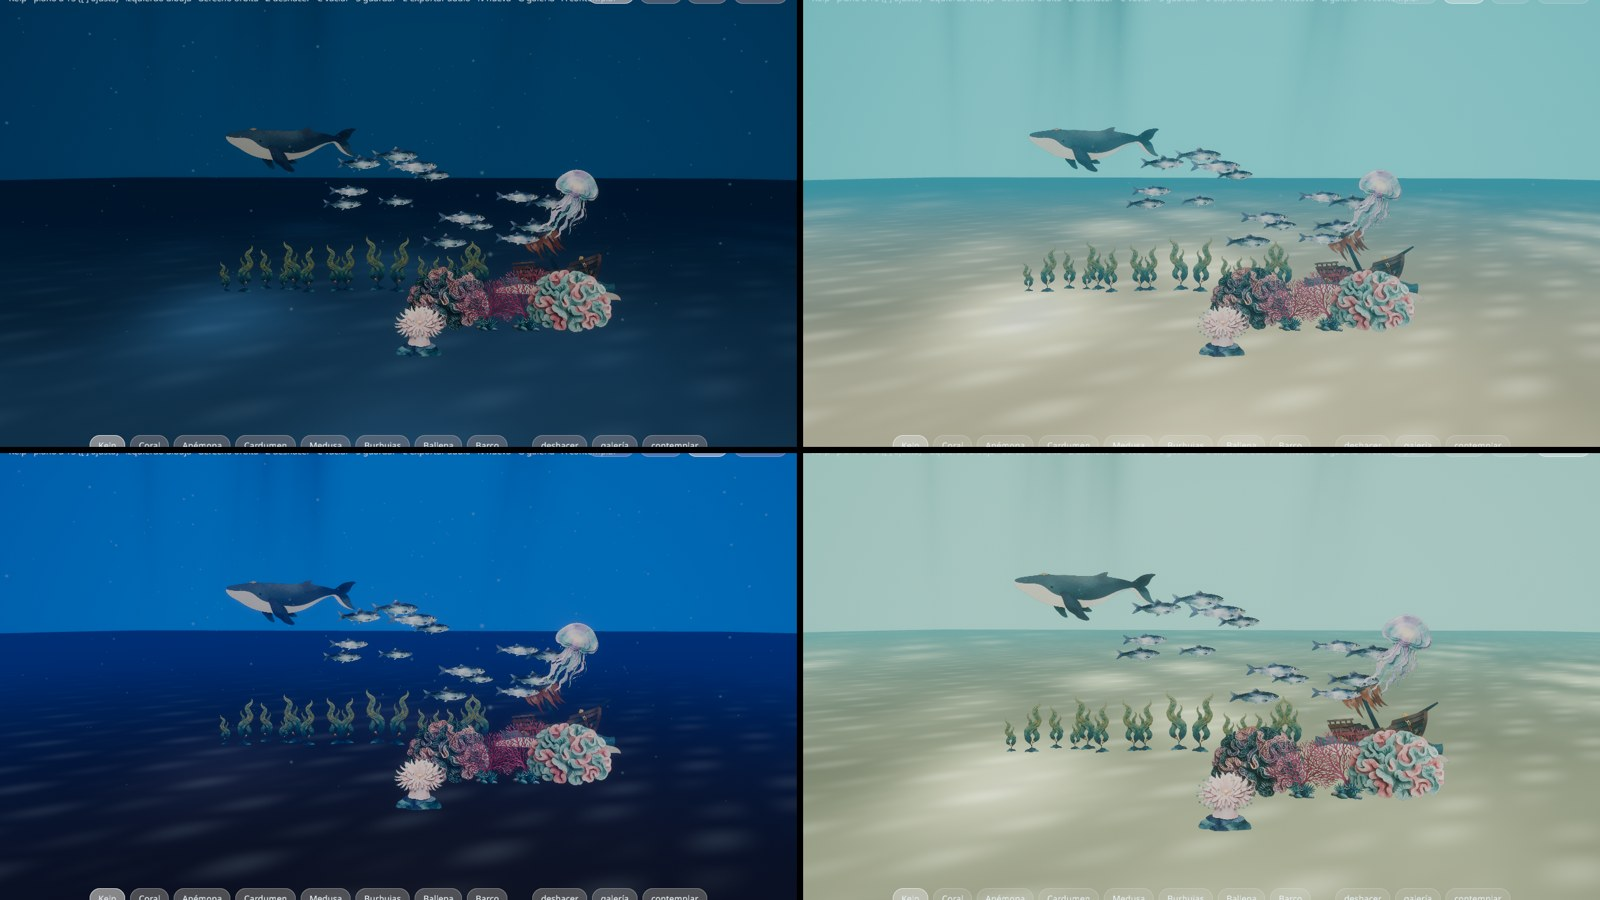
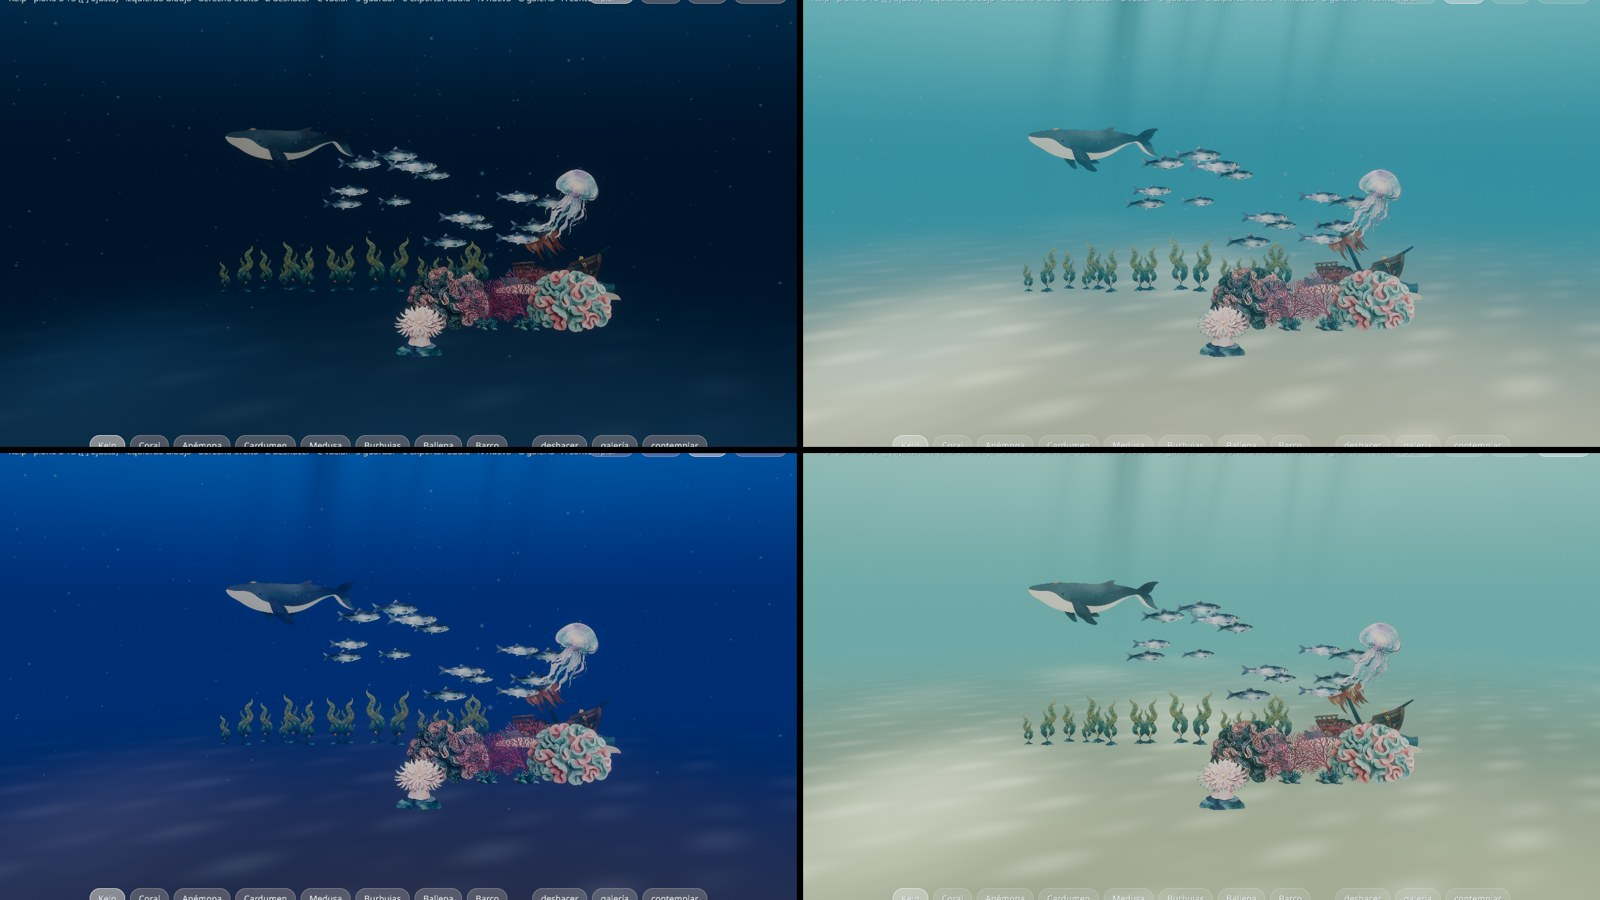
fondo calculado en el shader por altura: horizonte continuo con la niebla en las cuatro aguas

diff --git a/lienzo/app/src/material.rs b/lienzo/app/src/material.rs
@@ -26,7 +26,8 @@ pub struct CardMaterial {
     #[uniform(0)]
     pub params: Vec4,
     /// x: multiplicador de cáusticas del agua · y: escala espacial de las
-    /// cáusticas · z, w: sin uso.
+    /// cáusticas · z: 1 = es el fondo (degradado por altura: `color` arriba,
+    /// `fog_color` en el horizonte) · w: sin uso.
     #[uniform(0)]
     pub extra: Vec4,
     #[texture(1)]
@@ -72,9 +73,12 @@ impl CardMaterial {
         Self::with_caustics(texture, Color::WHITE, AlphaMode::Opaque, true, 0.9)
     }
 
-    /// Opaco sin niebla (fondo).
-    pub fn backdrop(texture: Handle<Image>) -> Self {
-        Self::new(texture, Color::WHITE, AlphaMode::Opaque, false)
+    /// El fondo: degradado por altura calculado en el shader. `color` es el
+    /// agua junto a la superficie; `fog_color`, el horizonte.
+    pub fn backdrop(texture: Handle<Image>, top: Color) -> Self {
+        let mut m = Self::new(texture, top, AlphaMode::Opaque, false);
+        m.extra.z = 1.0;
+        m
     }
 
     /// Aditivo (luz, partículas), con niebla.

diff --git a/lienzo/app/src/water.rs b/lienzo/app/src/water.rs
@@ -72,7 +72,7 @@ fn raw_look(w: Water) -> Look {
             bottom: [0.02, 0.10, 0.30],
             fog: Color::srgb(0.10, 0.32, 0.58),
             fog_density: 0.036,
-            sand: [0.16, 0.16, 0.19],
+            sand: [0.30, 0.29, 0.32],
             rays: 0.80,
             particles: 0.30,
             clear: Color::srgb(0.02, 0.10, 0.30),
@@ -120,10 +120,12 @@ pub fn apply(
         m.extra.x = lk.caustics;
     }
     if let Some(mut m) = materials.get_mut(&common.backdrop) {
-        m.texture = images.add(textures::backdrop(lk.top, lk.bottom));
+        m.color = Color::srgb(lk.top[0], lk.top[1], lk.top[2]).into();
     }
     if let Some(mut m) = materials.get_mut(&common.sand) {
         m.texture = images.add(textures::sand(lk.sand));
+        // el suelo se pierde antes en la niebla: a media distancia ya es agua
+        m.params.x = lk.fog_density * 1.9;
     }
     if let Some(mut m) = materials.get_mut(&common.ray) {
         m.color = Color::srgba(1.0, 1.0, 1.0, lk.rays).into();

diff --git a/lienzo/app/src/world.rs b/lienzo/app/src/world.rs
@@ -72,7 +72,8 @@ pub fn setup(
     // fondo: una esfera que envuelve todo, vista desde dentro, sin niebla.
     // Gire a donde gire la cámara, siempre hay agua.
     let backdrop = materials.add(CardMaterial::backdrop(
-        images.add(textures::backdrop(lk.top, lk.bottom)),
+        images.add(textures::soft_dot()),
+        Color::srgb(lk.top[0], lk.top[1], lk.top[2]),
     ));
     commands.spawn((
         Mesh3d(meshes.add(Sphere::new(90.0).mesh().uv(48, 24))),
@@ -85,7 +86,7 @@ pub fn setup(
     // suelo
     let sand = materials.add(CardMaterial::opaque(images.add(textures::sand(lk.sand))));
     commands.spawn((
-        Mesh3d(meshes.add(Plane3d::default().mesh().size(140.0, 140.0))),
+        Mesh3d(meshes.add(Plane3d::default().mesh().size(190.0, 190.0))),
         MeshMaterial3d(sand.clone()),
         Transform::from_xyz(0.0, 0.0, -6.0),
     ));

diff --git a/lienzo/app/src/ui.rs b/lienzo/app/src/ui.rs
@@ -83,7 +83,7 @@ pub fn setup(mut commands: Commands, font: Res<UiFont>) {
             BackgroundColor(BG),
         ))
         .with_children(|row| {
-            for (i, b) in Brush::ALL.iter().enumerate() {
+            for b in Brush::ALL.iter() {
                 button(row, &font.0, Action::Pick(*b), brush_name(*b));
             }
             spacer(row);
